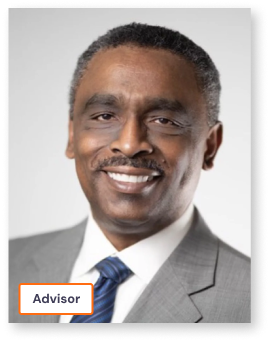
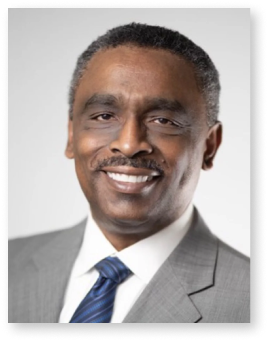
Meet the Team styling

diff --git a/index.html b/index.html
@@ -128,41 +128,58 @@
                     <p>Lorem ipsum dolor sit amet, consectetur adipiscing elit, sed do eiusmod tempor incididunt ut labore et dolore magna aliqua. Ut enim ad minim veniam, quis nostrud.</p>
                 </div>
 
-                <div class="flex flex-col xs:grid xs:grid-cols-2 gap-6">
+                <div class="grid grid-cols-2 gap-3 md:gap-6">
                     <div class="flex flex-col">
-                        <img src="/assets/Justin.png" alt="Justin Regis">
+                        <div class="relative overflow-hidden">
+                            <img src="/assets/Justin.png" alt="Justin Regis" class="w-full">
+                            <h6 class="text-[10px] sm:text-sm font-black text-bluePrimary bg-white border-2 border-orangePrimary absolute bottom-[10%] left-[7.5%] px-2 py-1 rounded-sm">Co-Founder</h6>
+                        </div>
                         <h6 class="font-bold mb-1">Justin Regis</h6>
-                        <p class="text-sm">Lorem ipsum dolor sit amet, consectetur adipiscing elit, sed do eiusmod tempor incididunt ut labore et dolore magna.</p>
+                        <p class="text-sm font-light">Co-Founder of QuicShop, which gained recognition at Union College's Sparklab competition.</p>
                     </div>
 
                     <div class="flex flex-col">
-                        <img src="/assets/Sean.png" alt="Sean Regis">
+                        <div class="relative overflow-hidden">
+                            <img src="/assets/Sean.png" alt="Sean Regis" class="w-full">
+                            <h6 class="text-[10px] sm:text-sm font-black text-bluePrimary bg-white border-2 border-orangePrimary absolute bottom-[10%] left-[7.5%] px-2 py-1 rounded-sm">Co-Founder</h6>
+                        </div>
                         <h6 class="font-bold mb-1">Sean Regis</h6>
-                        <p class="text-sm">Lorem ipsum dolor sit amet, consectetur adipiscing elit, sed do eiusmod tempor incididunt ut labore et dolore magna.</p>
+                        <p class="text-sm font-light">Co-Founder of QuicShop, which gained recognition at Union College's Sparklab competition.</p>
                     </div>
 
                     <div class="flex flex-col">
-                        <img src="/assets/Ross.png" alt="Ross Joel">
+                        <div class="relative overflow-hidden">
+                            <img src="/assets/Ross.png" alt="Ross Joel" class="w-full">
+                            <h6 class="text-[10px] sm:text-sm font-black text-bluePrimary bg-white border-2 border-orangePrimary absolute bottom-[10%] left-[7.5%] px-2 py-1 rounded-sm">Advisor</h6>
+                        </div>
                         <h6 class="font-bold mb-1">Ross Joel</h6>
-                        <p class="text-sm">Lorem ipsum dolor sit amet, consectetur adipiscing elit, sed do eiusmod tempor incididunt ut labore et dolore magna.</p>            
+                        <p class="text-sm font-light">Retired CEO of BroadcastMed, one of the largest digital media platform companies in the US.</p>            
                     </div>
-
                     <div class="flex flex-col">
-                        <img src="/assets/Gardy.png" alt="Gardy Berthoumieux">
+                        <div class="relative overflow-hidden">
+                            <img src="/assets/Gardy.png" alt="Gardy Berthoumieux" class="w-full">
+                            <h6 class="text-[10px] sm:text-sm font-black text-bluePrimary bg-white border-2 border-orangePrimary absolute bottom-[10%] left-[7.5%] px-2 py-1 rounded-sm">Advisor</h6>
+                        </div>
                         <h6 class="font-bold mb-1">Gardy Berthoumieux</h6>
-                        <p class="text-sm">Lorem ipsum dolor sit amet, consectetur adipiscing elit, sed do eiusmod tempor incididunt ut labore et dolore magna.</p>
+                        <p class="text-sm font-light">Managing partner at Visionario Capital, and a former VP at Goldman Sachs.</p>
                     </div>
                     
                     <div class="flex flex-col">
-                        <img src="/assets/Keith.png" alt="Keith Levy">
+                        <div class="relative overflow-hidden">
+                            <img src="/assets/Keith.png" alt="Keith Levy" class="w-full">
+                            <h6 class="text-[10px] sm:text-sm font-black text-bluePrimary bg-white border-2 border-orangePrimary absolute bottom-[10%] left-[7.5%] px-2 py-1 rounded-sm">Advisor</h6>
+                        </div>
                         <h6 class="font-bold mb-1">Keith Levy</h6>
-                        <p class="text-sm">Lorem ipsum dolor sit amet, consectetur adipiscing elit, sed do eiusmod tempor incididunt ut labore et dolore magna.</p>
+                        <p class="text-sm font-light">Managing partner at Visionario Capital, and a former managing director at Credit Suisse.</p>
                     </div>
 
                     <div class="flex flex-col">
-                        <img src="/assets/Tony.png" alt="Tony Versaci">
+                        <div class="relative overflow-hidden">
+                            <img src="/assets/Tony.png" alt="Tony Versaci" class="w-full">
+                            <h6 class="text-[10px] sm:text-sm font-black text-bluePrimary bg-white border-2 border-orangePrimary absolute bottom-[10%] left-[7.5%] px-2 py-1 rounded-sm">Advisor</h6>
+                        </div>
                         <h6 class="font-bold mb-1">Tony Versaci</h6>
-                        <p class="text-sm">Lorem ipsum dolor sit amet, consectetur adipiscing elit, sed do eiusmod tempor incididunt ut labore et dolore magna.</p>
+                        <p class="text-sm font-light">Managing director of product strategy at Versana, and a former managing director at Deutsche bank.</p>
                     </div>
                 </div>
             </div>

diff --git a/output.css b/output.css
@@ -554,8 +554,76 @@ video {
   display: none;
 }
 
+.absolute {
+  position: absolute;
+}
+
 .relative {
   position: relative;
+}
+
+.bottom-2 {
+  bottom: 0.5rem;
+}
+
+.left-2 {
+  left: 0.5rem;
+}
+
+.bottom-3 {
+  bottom: 0.75rem;
+}
+
+.left-3 {
+  left: 0.75rem;
+}
+
+.bottom-1\/4 {
+  bottom: 25%;
+}
+
+.left-1\/4 {
+  left: 25%;
+}
+
+.bottom-2\/4 {
+  bottom: 50%;
+}
+
+.left-2\/4 {
+  left: 50%;
+}
+
+.bottom-5 {
+  bottom: 1.25rem;
+}
+
+.left-5 {
+  left: 1.25rem;
+}
+
+.bottom-8 {
+  bottom: 2rem;
+}
+
+.bottom-\[10\%\] {
+  bottom: 10%;
+}
+
+.left-\[50\%\] {
+  left: 50%;
+}
+
+.left-\[5\%\] {
+  left: 5%;
+}
+
+.left-\[10\%\] {
+  left: 10%;
+}
+
+.left-\[7\.5\%\] {
+  left: 7.5%;
 }
 
 .col-start-1 {
@@ -587,6 +655,10 @@ video {
   margin-right: auto;
 }
 
+.mb-1 {
+  margin-bottom: 0.25rem;
+}
+
 .mb-8 {
   margin-bottom: 2rem;
 }
@@ -595,28 +667,20 @@ video {
   margin-top: 2rem;
 }
 
-.mb-3 {
-  margin-bottom: 0.75rem;
-}
-
-.mb-12 {
-  margin-bottom: 3rem;
-}
-
-.mb-2 {
-  margin-bottom: 0.5rem;
-}
-
-.mb-1 {
-  margin-bottom: 0.25rem;
-}
-
 .flex {
   display: flex;
 }
 
+.grid {
+  display: grid;
+}
+
 .hidden {
   display: none;
+}
+
+.aspect-square {
+  aspect-ratio: 1 / 1;
 }
 
 .h-0\.5 {
@@ -646,6 +710,10 @@ video {
 .rotate-180 {
   --tw-rotate: 180deg;
   transform: translate(var(--tw-translate-x), var(--tw-translate-y)) rotate(var(--tw-rotate)) skewX(var(--tw-skew-x)) skewY(var(--tw-skew-y)) scaleX(var(--tw-scale-x)) scaleY(var(--tw-scale-y));
+}
+
+.grid-cols-2 {
+  grid-template-columns: repeat(2, minmax(0, 1fr));
 }
 
 .flex-col {
@@ -712,6 +780,10 @@ video {
   justify-self: center;
 }
 
+.overflow-hidden {
+  overflow: hidden;
+}
+
 .scroll-smooth {
   scroll-behavior: smooth;
 }
@@ -724,8 +796,16 @@ video {
   border-radius: 0.75rem;
 }
 
+.rounded-sm {
+  border-radius: 0.125rem;
+}
+
 .border {
   border-width: 1px;
+}
+
+.border-2 {
+  border-width: 2px;
 }
 
 .border-bluePrimary {
@@ -834,6 +914,16 @@ video {
   padding-bottom: 1.5rem;
 }
 
+.px-2 {
+  padding-left: 0.5rem;
+  padding-right: 0.5rem;
+}
+
+.py-1 {
+  padding-top: 0.25rem;
+  padding-bottom: 0.25rem;
+}
+
 .pb-16 {
   padding-bottom: 4rem;
 }
@@ -866,6 +956,10 @@ video {
   line-height: 1.75rem;
 }
 
+.text-\[10px\] {
+  font-size: 10px;
+}
+
 .font-bold {
   font-weight: 700;
 }
@@ -880,6 +974,10 @@ video {
 
 .font-semibold {
   font-weight: 600;
+}
+
+.font-black {
+  font-weight: 900;
 }
 
 .leading-tight {
@@ -988,10 +1086,6 @@ video {
 }
 
 @media (min-width: 640px) {
-  .sm\:flex {
-    display: flex;
-  }
-
   .sm\:grid {
     display: grid;
   }
@@ -1002,6 +1096,11 @@ video {
 
   .sm\:flex-row {
     flex-direction: row;
+  }
+
+  .sm\:text-sm {
+    font-size: 0.875rem;
+    line-height: 1.25rem;
   }
 }
 
@@ -1026,12 +1125,20 @@ video {
     grid-template-columns: repeat(8, minmax(0, 1fr));
   }
 
+  .md\:grid-cols-3 {
+    grid-template-columns: repeat(3, minmax(0, 1fr));
+  }
+
   .md\:flex-col {
     flex-direction: column;
   }
 
   .md\:gap-12 {
     gap: 3rem;
+  }
+
+  .md\:gap-6 {
+    gap: 1.5rem;
   }
 
   .md\:px-12 {
@@ -1050,15 +1157,19 @@ video {
     display: flex;
   }
 
-  .lg\:grid {
-    display: grid;
-  }
-
-  .lg\:grid-cols-2 {
-    grid-template-columns: repeat(2, minmax(0, 1fr));
+  .lg\:grid-cols-3 {
+    grid-template-columns: repeat(3, minmax(0, 1fr));
   }
 
   .lg\:flex-row {
     flex-direction: row;
+  }
+
+  .lg\:gap-12 {
+    gap: 3rem;
+  }
+
+  .lg\:gap-6 {
+    gap: 1.5rem;
   }
 }
